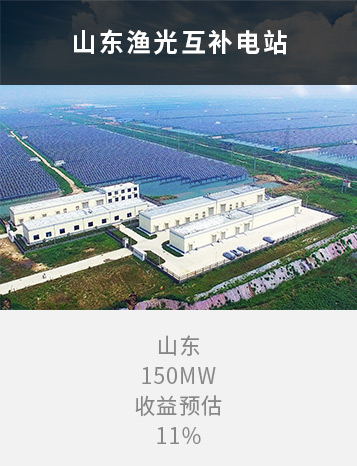
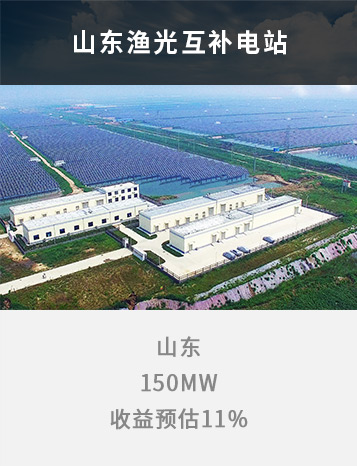
版本细节优化

Changed region(s): [[0.3081, 0.721, 0.7087, 0.9614]]

diff --git a/src/views/Home.vue b/src/views/Home.vue
@@ -79,9 +79,7 @@
                 <li class="li1">
                   <a href="javascript:;" @click="toDetail(item)">{{item.tit}}</a>
                 </li>
-                <li class="li2">
-                  {{item.con}}
-                </li>
+                <li class="li2">{{item.con}}</li>
               </ul>
             </div>
           </div>
@@ -124,25 +122,25 @@ export default {
       lightArr: [100, 60, 150, 75, 120],
       newList: [
         {
-          id: 1,
-          tit: "光伏龙头企业竞相迈入组件4.0快车道",
+          id: 3,
+          tit: "国家能源局下达十三五第二批光伏扶贫项目 总装机规模达167万千瓦",
           con:
-            "光伏龙头企业竞相迈入组件4.0快车道光伏龙头企业竞相迈入组件4.0 快车道光伏龙头企业竞相迈入……",
-          time: "2019-04-22"
+            "4月19日，国家能源局网站发布《国家能源局 国务院扶贫办关于下达“十三五”第二批光伏扶贫项目计……",
+          time: "2019-04-27"
         },
         {
-          id:2,
+          id: 2,
           tit: "多省已启动光伏平价上网项目申报 首批项目有望年内落地",
           con:
             "国家能源局在上周连续发布了多项重要政策。4月10日，国家能源局发布《关于推进风电、光伏发电……",
           time: "2019-04-23"
         },
         {
-          id: 3,
-          tit: "国家能源局下达十三五第二批光伏扶贫项目 总装机规模达167万千瓦",
+          id: 1,
+          tit: "光伏龙头企业竞相迈入组件4.0快车道",
           con:
-            "4月19日，国家能源局网站发布《国家能源局 国务院扶贫办关于下达“十三五”第二批光伏扶贫项目计……",
-          time: "2019-04-27"
+            "光伏龙头企业竞相迈入组件4.0快车道光伏龙头企业竞相迈入组件4.0 快车道光伏龙头企业竞相迈入……",
+          time: "2019-04-22"
         }
       ],
       cardList: [
@@ -173,29 +171,16 @@ export default {
       ],
       eventSlides: [
         {
-          img: require("../assets/eventimg.jpg"),
-          href: "/",
-          txt: "光伏龙头企业竞相迈入组件4.0快车道"
+          img: require("../assets/eventimg_1.jpg"),
+          href: "/"
         },
         {
-          img: require("../assets/eventimg.jpg"),
-          href: "/",
-          txt: "光伏龙头企业竞相迈入组件4.0快车道"
+          img: require("../assets/eventimg_2.jpg"),
+          href: "/"
         },
         {
-          img: require("../assets/eventimg.jpg"),
-          href: "/",
-          txt: "光伏龙头企业竞相迈入组件4.0快车道"
-        },
-        {
-          img: require("../assets/eventimg.jpg"),
-          href: "/",
-          txt: "光伏龙头企业竞相迈入组件4.0快车道"
-        },
-        {
-          img: require("../assets/eventimg.jpg"),
-          href: "/",
-          txt: "光伏龙头企业竞相迈入组件4.0快车道"
+          img: require("../assets/eventimg_3.jpg"),
+          href: "/"
         }
       ],
       bannerSlides: [
@@ -228,7 +213,7 @@ export default {
         coverflowEffect: {
           rotate: 0,
           stretch: 0,
-          depth: 100,
+          depth: 200,
           modifier: 1,
           slideShadows: true
         },
@@ -245,20 +230,20 @@ export default {
   },
   methods: {
     getYM(time) {
-      let arr = time.split('-');
-      return arr[0] + "-" + arr[1]
+      let arr = time.split("-");
+      return arr[0] + "-" + arr[1];
     },
     getD(time) {
-      let arr = time.split('-');
-      return arr[2]
+      let arr = time.split("-");
+      return arr[2];
     },
     toDetail(item) {
       this.$router.push({
-        path: 'detail',
+        path: "detail",
         query: {
           id: item.id
         }
-      })
+      });
     }
   }
 };
@@ -640,7 +625,7 @@ export default {
       .event-c {
         padding-top: 80px;
         .swiper-slide {
-          width: 594px;
+          width: 687px;
           ul {
             li.li1 {
               width: 100%;
@@ -652,7 +637,7 @@ export default {
         }
         .swiper-slide-prev,
         .swiper-slide-next {
-          width: 594px;
+          width: 687px;
           height: 338px;
           overflow: hidden;
         }

diff --git a/src/App.vue b/src/App.vue
@@ -12,31 +12,32 @@
         <div class="nav-link" v-show="isShow">
           <router-link to="/">首页</router-link>
           <router-link to="/solutions">解决方案</router-link>
-          <!-- <router-link to="/">交易平台</router-link>
-          <router-link to="/">研究院</router-link>
-          <router-link to="/">新闻动态</router-link> -->
+          <a href="javascript:;">交易平台</a>
+          <a href="javascript:;">研究院</a>
+          <a href="javascript:;">新闻动态</a>
           <router-link to="/about">关于我们</router-link>
         </div>
       </div>
     </div>
-    <router-view/>
+    <div class="wrapper">
+      <router-view/>
+    </div>
     <div class="flink">
       <div class="flink-flex">
         <ul class="ul1">
-          <li class="li1">新能博安</li>
           <li class="li2">北京市东城区和平里西街51号雍和宫壹中心</li>
           <li class="li3">010-64268933</li>
         </ul>
         <ul class="ul2">
           <li class="li1">友情链接</li>
           <li class="li2">
-            <a href="javascript:;">中数能研究院</a>
+            <a href="javascript:;">国研智库</a>
           </li>
           <li class="li2">
             <a href="javascript:;">清华X-lab</a>
           </li>
           <li class="li2">
-            <a href="javascript:;">哈希未来</a>
+            <a href="javascript:;">中数能研究院</a>
           </li>
         </ul>
         <ul class="ul3">
@@ -44,7 +45,7 @@
         </ul>
       </div>
     </div>
-    <div class="copyright"></div>
+    <div class="copyright"><span>Copyright © 国研新能科技有限公司 版权所有 备案号 京ICP备19014207号</span></div>
   </div>
 </template>
 
@@ -169,8 +170,18 @@ export default {
 }
 .copyright {
   height: 78px;
-  background: #3a3434 url("./assets/copyright.png") center center no-repeat;
+  text-align: center;
+  font-size: 20px;
+  font-weight: bold;
+  color: #b0b0b0;
+  background-color: #3e3e3e;
   border-top: 1px solid #777777;
+  display: flex;
+  justify-content: center;
+  align-items: center;
+}
+.wrapper {
+  min-height: 77px;
 }
 
 @media screen and (max-width: 768px) {
@@ -228,9 +239,6 @@ export default {
         padding: 15px;
       }
     }
-  }
-  .copyright {
-    background-size: contain;
   }
 }
 </style>

diff --git a/public/index.html b/public/index.html
@@ -5,7 +5,7 @@
     <meta http-equiv="X-UA-Compatible" content="IE=edge">
     <meta name="viewport" content="width=device-width,minimum-scale=1.0,maximum-scale=1.0,initial-scale=1.0,user-scalable=no">
     <link rel="icon" href="<%= BASE_URL %>favicon.ico">
-    <title>power</title>
+    <title>国研新能</title>
   </head>
   <body>
     <noscript>
